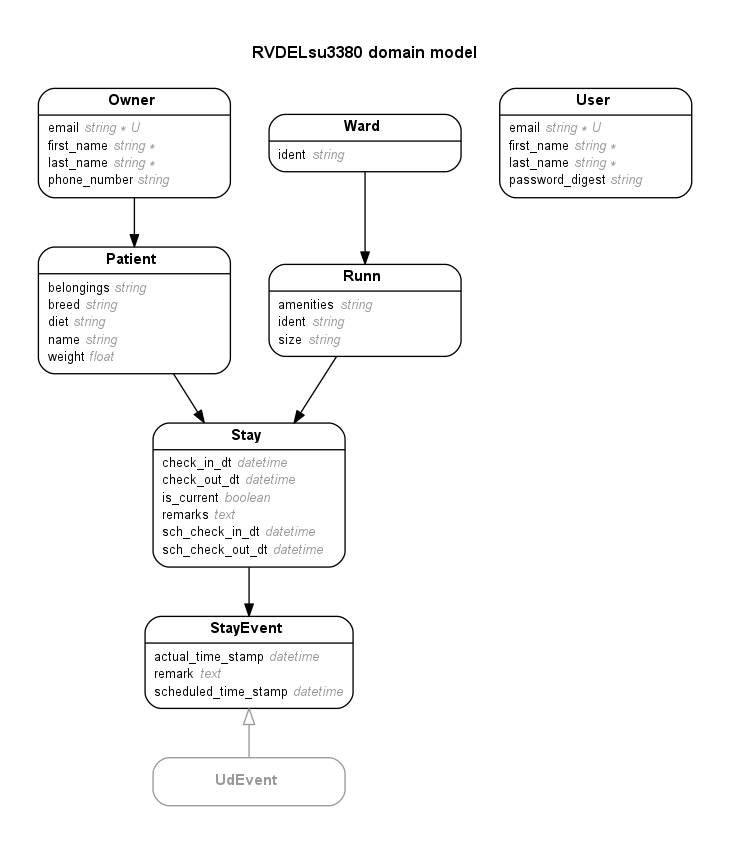
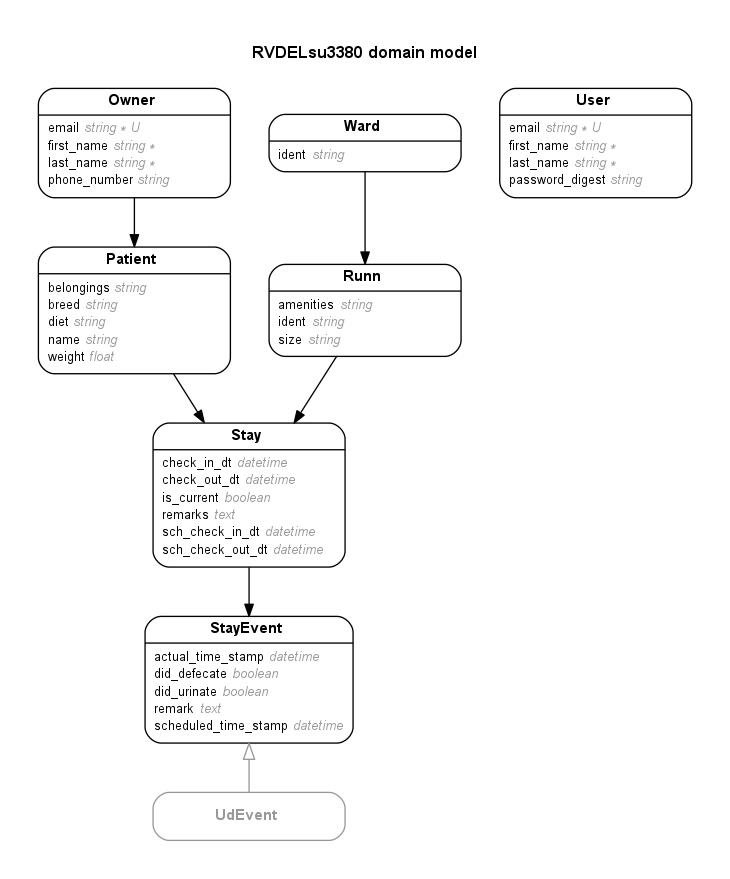
GENERATE model UdEvent < StayEvent (step 2)
- Again, sorry about calling this "UdEvent" instead of "UDEvent".
- Add UdEvent subclass fields to parent StayEvent
- This feels sloppy (no pun intended), but it seems to work, and tests
  are passing.

    rails generate migration add_ud_event_fields_to_stay_event \
      did_urinate:boolean \
      did_defecate:boolean

diff --git a/db/schema.rb b/db/schema.rb
@@ -11,7 +11,7 @@
 #
 # It's strongly recommended that you check this file into your version control system.
 
-ActiveRecord::Schema.define(version: 20151118144158) do
+ActiveRecord::Schema.define(version: 20151118150006) do
 
   # These are extensions that must be enabled in order to support this database
   enable_extension "plpgsql"
@@ -57,6 +57,8 @@ ActiveRecord::Schema.define(version: 20151118144158) do
     t.datetime "updated_at",           null: false
     t.text     "remark"
     t.string   "type"
+    t.boolean  "did_urinate"
+    t.boolean  "did_defecate"
   end
 
   add_index "stay_events", ["stay_id"], name: "index_stay_events_on_stay_id", using: :btree

diff --git a/db/migrate/20151118150006_add_ud_event_fields_to_stay_event.rb b/db/migrate/20151118150006_add_ud_event_fields_to_stay_event.rb
@@ -1,0 +1,6 @@
+class AddUdEventFieldsToStayEvent < ActiveRecord::Migration
+  def change
+    add_column :stay_events, :did_urinate, :boolean
+    add_column :stay_events, :did_defecate, :boolean
+  end
+end
